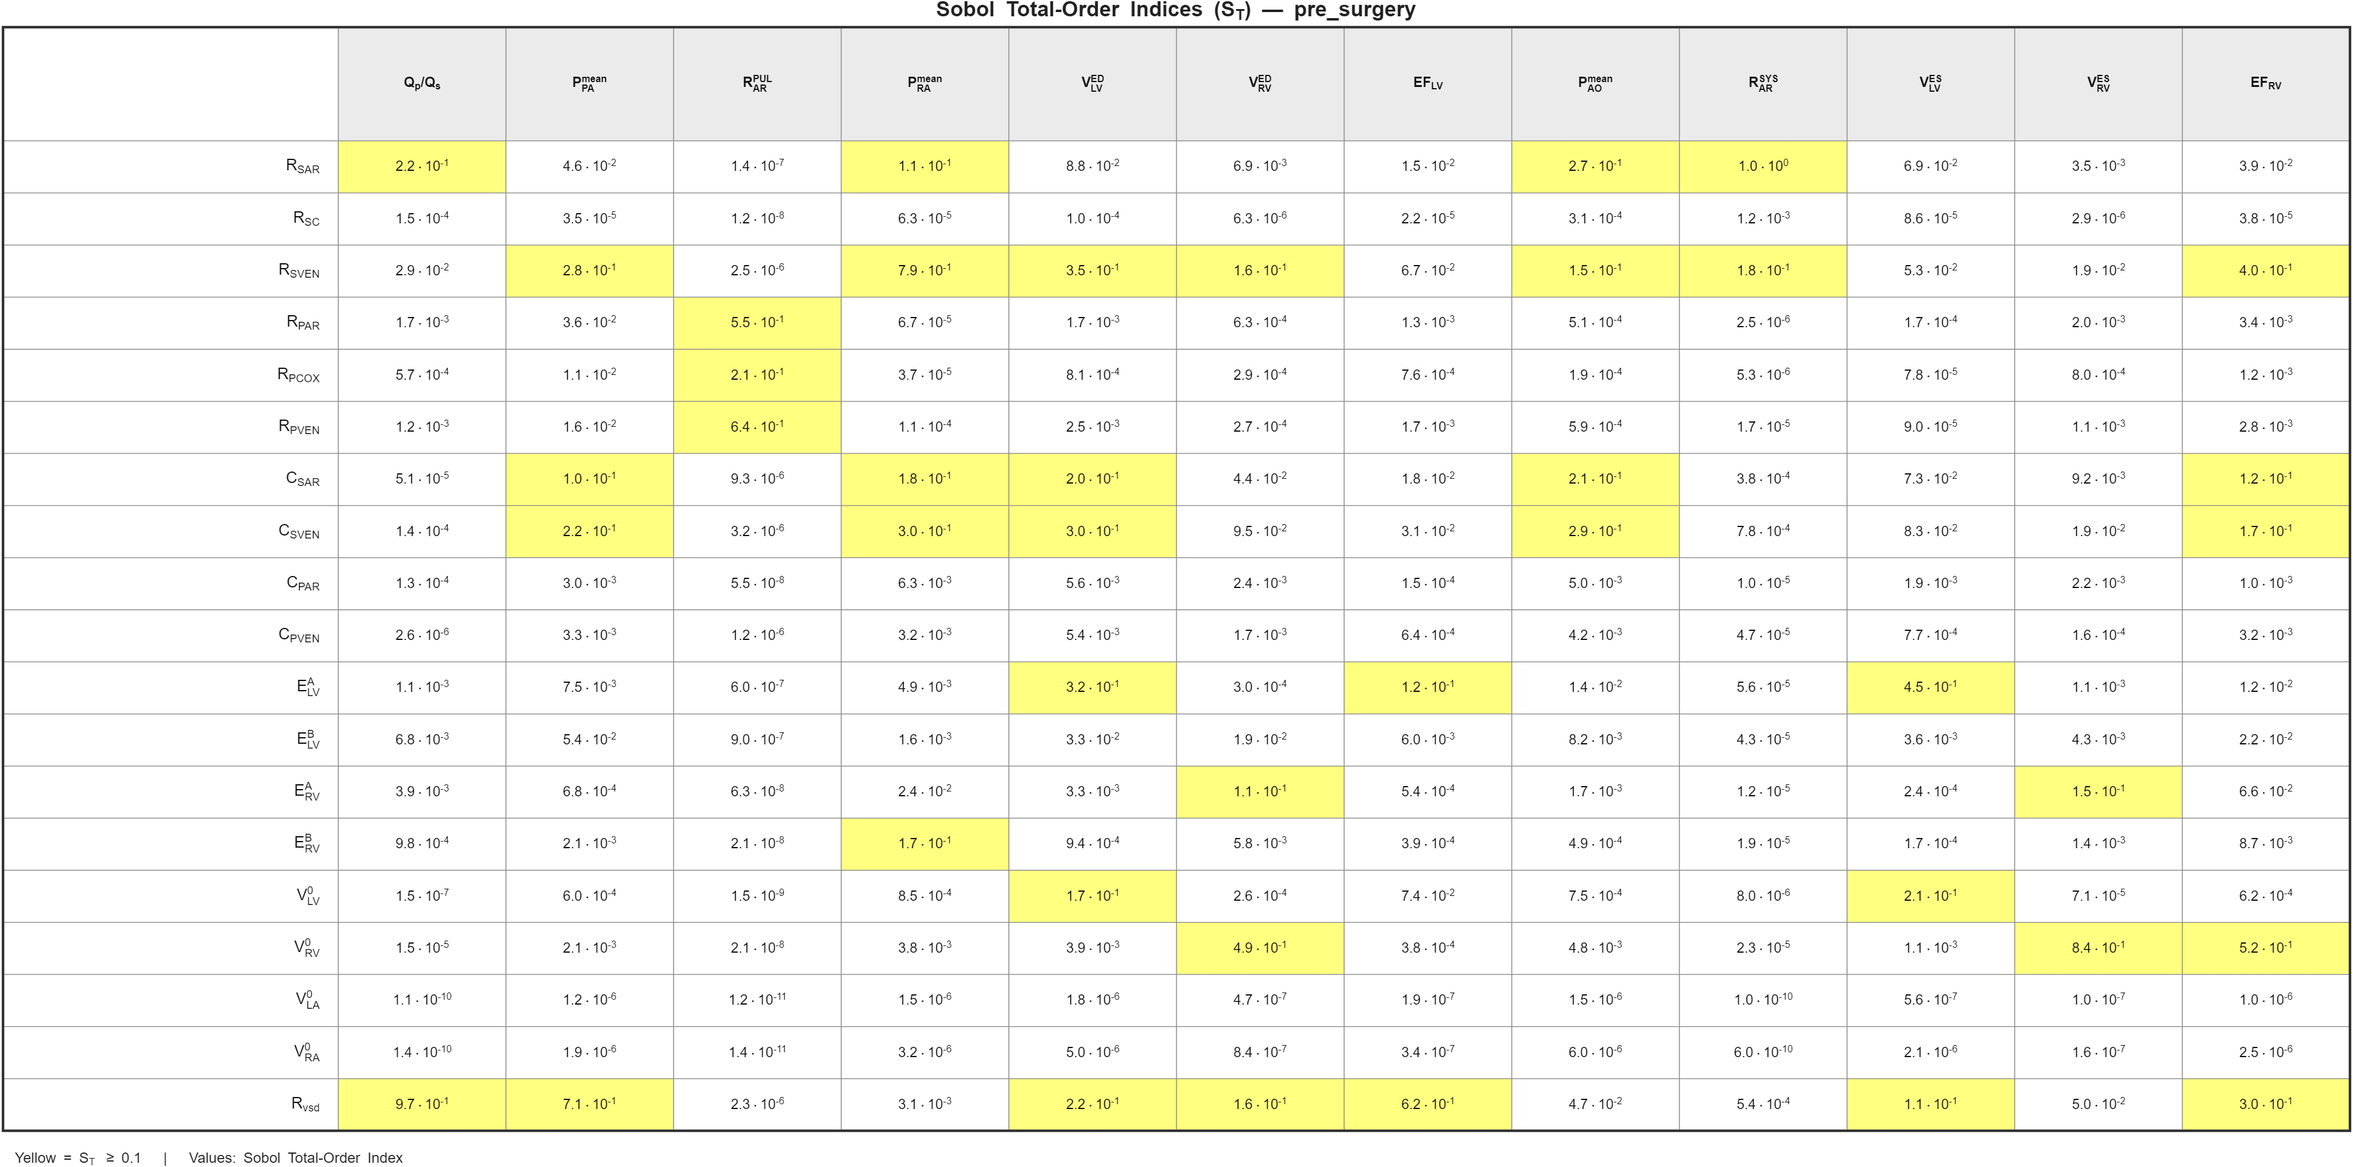
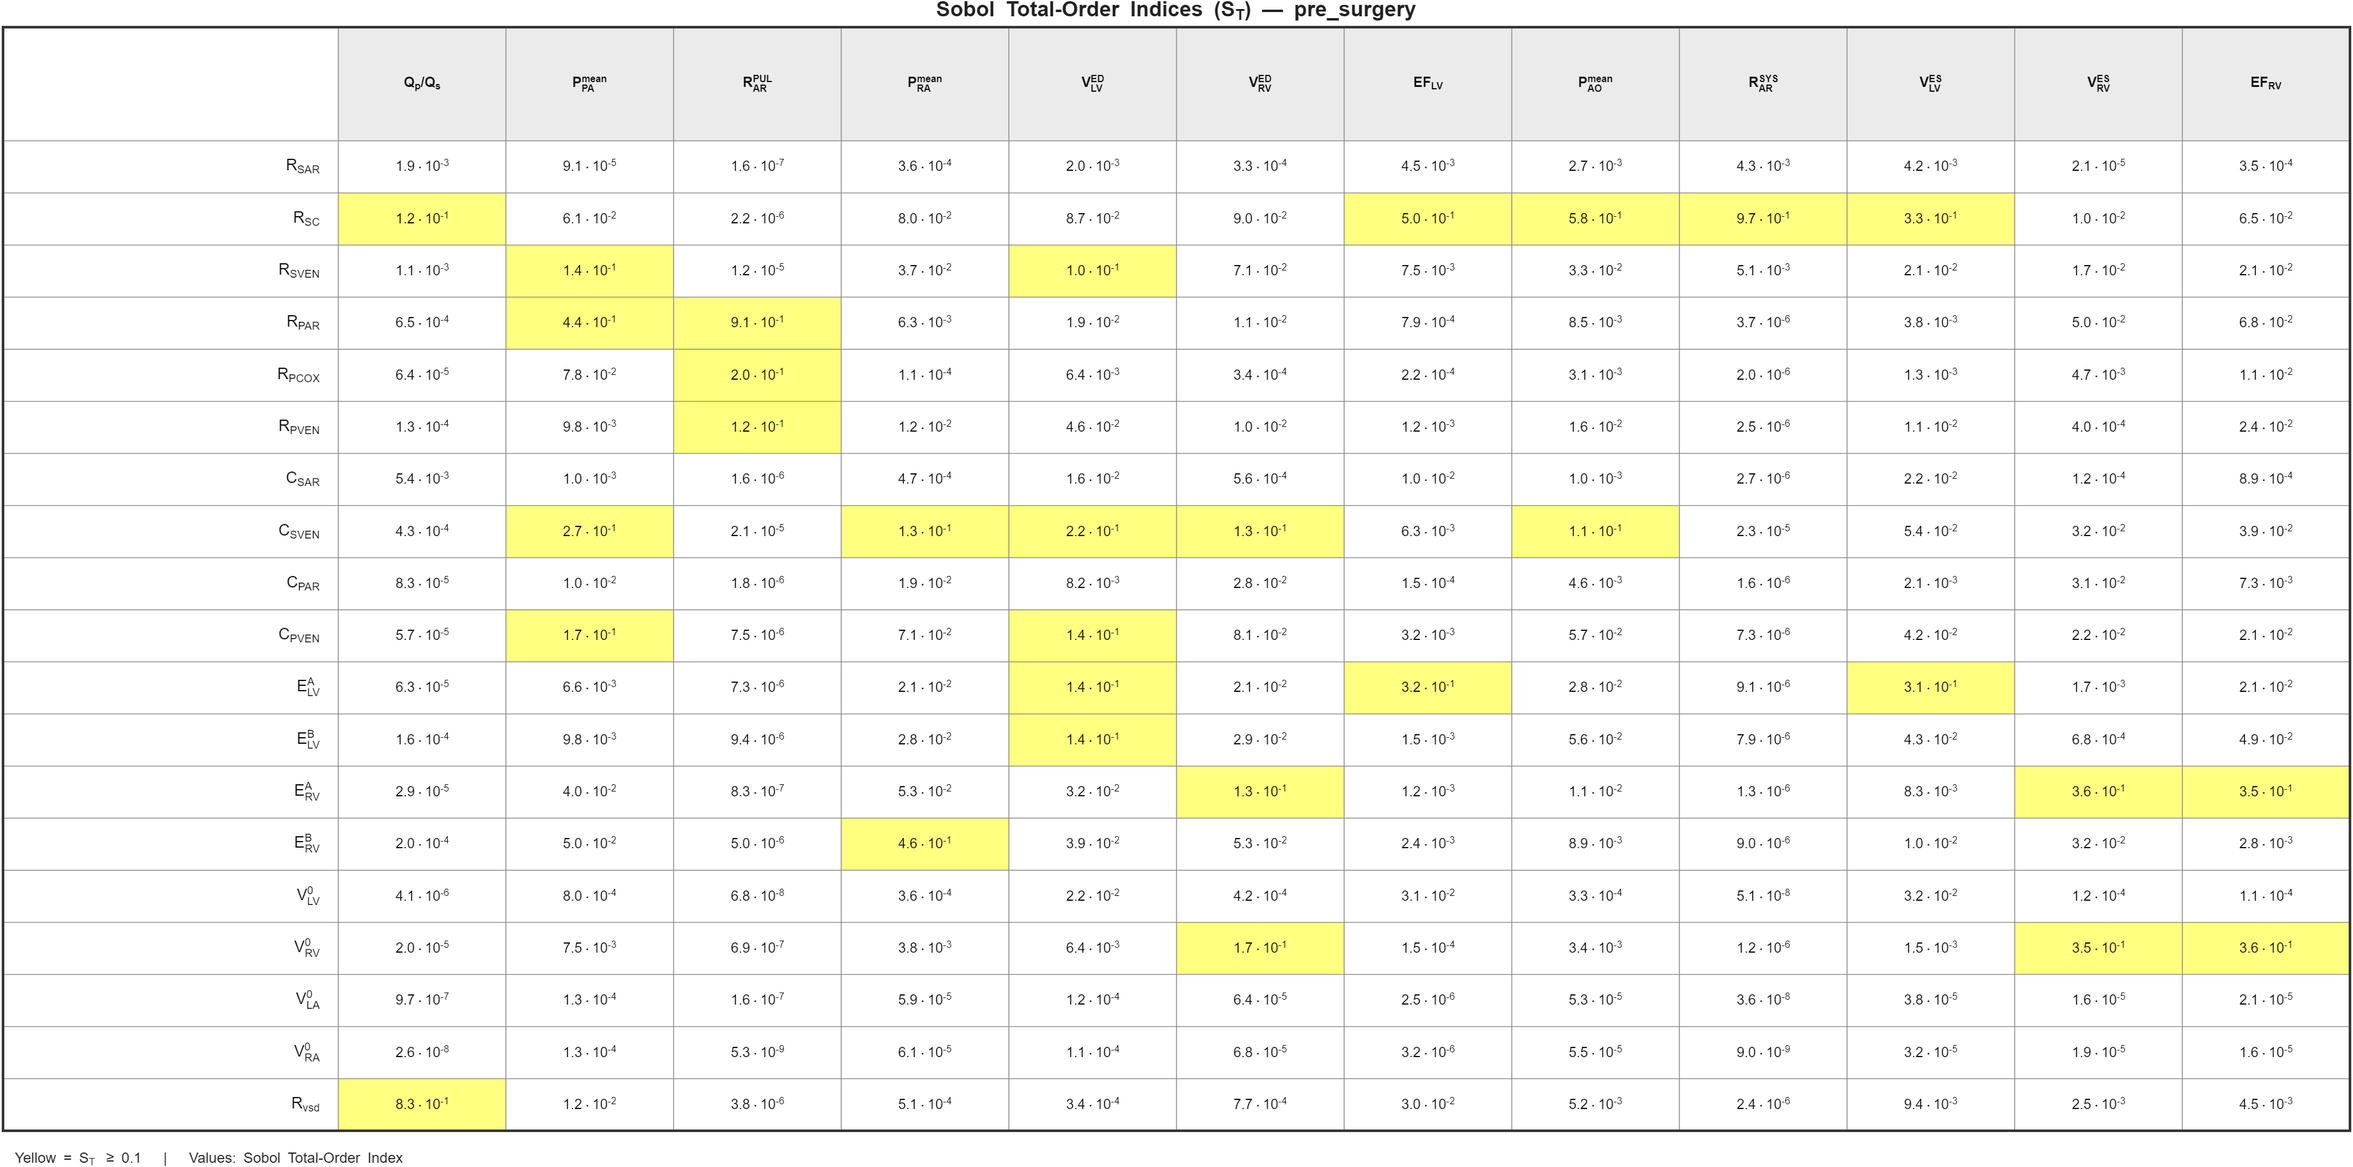
V 5.2.2

diff --git a/src/calibration/run_calibration.m b/src/calibration/run_calibration.m
@@ -2,23 +2,22 @@ function [params_best, calib_out] = run_calibration(params0, clinical, scenario)
 % RUN_CALIBRATION
 % -----------------------------------------------------------------------
 % Calibrates a scenario-specific subset of model parameters to clinical
-% haemodynamic targets using fmincon (interior-point, L-BFGS Hessian).
+% haemodynamic targets using Nelder-Mead (fminsearch).
 %
 % RATIONALE:
-%   The baseline model (from params_from_clinical.m) already maps clinical
-%   parameters to model space via Ohm's law (Phase 0, deterministic).
-%   This function performs Phase 1: a bounded gradient-based polish.
+%   The baseline model (from params_from_clinical.m) already maps 28
+%   clinical parameters to model space via Ohm's law and conservation
+%   principles (Phase 0, deterministic). This function performs Phase 1:
+%   a bounded Nelder-Mead polish to refine elastance parameters only.
 %
-%   fmincon (interior-point + L-BFGS) is chosen because:
-%     - Hard bounds on all 11 parameters are enforced natively, avoiding
-%       penalty-weight tuning required by Nelder-Mead wrappers.
-%     - L-BFGS approximate Hessian is cheap (no Hessian storage) and
-%       robust to noisy objectives from ODE finite-differencing.
-%     - Forward-difference step 1e-5 is large enough to clear ODE noise
-%       while remaining within the physiologically linear regime.
-%     - Convergence at ~300–500 evals (vs 500+ for Nelder-Mead at d=11).
+%   Nelder-Mead is optimal for smooth, low-dimensional (2–4 vars)
+%   unconstrained problems near a good starting point. Convergence:
+%   ~100–200 evals = ~5–15 minutes (vs ~20–50 min for particleswarm).
 %
-%   REQUIRES: Optimization Toolbox (fmincon).
+%   Solver comparison for this use case:
+%   - fminsearch (Nelder-Mead):  optimal for d≤4, smooth objective
+%   - fmincon:                    requires gradient; fails with ODE noise
+%   - particleswarm:              overkill; 4× longer than Nelder-Mead
 %
 % INPUTS:
 %   params0   - baseline (scaled, pre-conditioned by params_from_clinical)
@@ -26,22 +25,18 @@ function [params_best, calib_out] = run_calibration(params0, clinical, scenario)
 %   scenario  - 'pre_surgery' | 'post_surgery'
 %
 % OUTPUTS:
-%   params_best - parameter struct with optimized parameters
-%   calib_out   - struct with convergence summary, including:
-%                   .exitflag   fmincon exit condition
-%                   .output     fmincon output struct
-%                   .mask       logical active-parameter mask
-%                   .xbest_all  full parameter vector (active + frozen)
+%   params_best - parameter struct with optimized elastances
+%   calib_out   - struct with convergence summary
 %
 % REFERENCES:
-%   [1] Nocedal J & Wright SJ (2006). Numerical Optimization, 2nd ed.
-%       Springer. Ch. 7 (L-BFGS), Ch. 19 (interior-point).
+%   [1] Torczon, V. (1991). On the Convergence of Pattern Search Algorithms.
+%       SIAM J. Optimization 1(2), 123–145. (Nelder-Mead theory)
 %   [2] objective_calibration.m — weighted least-squares objective
 %   [3] calibration_param_sets.m — free-parameter lists and bounds
 %
 % AUTHOR:   Unified VSD Model
 % DATE:     2026-03-03
-% VERSION:  3.0  (fmincon interior-point + L-BFGS)
+% VERSION:  2.1
 % -----------------------------------------------------------------------
 
 %% Retrieve scenario-specific calibration configuration
@@ -58,19 +53,19 @@ fprintf('[run_calibration] Starting from pre-conditioned baseline (J0 = %.6f)...
 if exist('fmincon', 'file') ~= 2
     error('run_calibration:missingFmincon', ...
           ['fmincon is not available. Install Optimization Toolbox ' ...
-           'to run calibration.']);
+           'to run Batch 3 calibration.']);
 end
 
 opts = optimoptions('fmincon', ...
-    'Algorithm',                'interior-point', ...
-    'HessianApproximation',     'lbfgs', ...
-    'FiniteDifferenceStepSize', 1e-5,  ...
-    'FiniteDifferenceType',     'forward', ...
-    'Display',                  'iter-detailed', ...
-    'MaxFunctionEvaluations',   4000, ...
-    'MaxIterations',            300, ...
-    'OptimalityTolerance',      1e-6, ...
-    'StepTolerance',            1e-8);
+    'Algorithm', 'interior-point', ...
+    'HessianApproximation', 'lbfgs', ...
+    'FiniteDifferenceStepSize', 1e-5, ...
+    'FiniteDifferenceType', 'forward', ...
+    'Display', 'iter-detailed', ...
+    'MaxFunctionEvaluations', 4000, ...
+    'MaxIterations', 300, ...
+    'OptimalityTolerance', 1e-6, ...
+    'StepTolerance', 1e-8);
 
 [xbest, fbest, exitflag, output] = fmincon( ...
     obj, calib.x0, [], [], [], [], calib.lb, calib.ub, [], opts);
@@ -84,36 +79,30 @@ for i = 1:numel(calib.names)
 end
 
 % Reconstruct full parameter vector for traceability (active + frozen).
-% xbest_all has the same length as calib.names_all; active entries are
-% replaced with the optimised values, frozen entries stay at x0_all.
-xbest_all          = calib.x0_all;
+xbest_all = calib.x0_all;
 xbest_all(calib.mask) = xbest;
 
 %% Collect output summary
-calib_out             = struct();
-calib_out.names       = calib.names;        % active parameter names
-calib_out.names_all   = calib.names_all;    % full candidate list
-calib_out.mask        = calib.mask;         % active-param logical mask
-calib_out.x0         = calib.x0;           % initial guess (active)
-calib_out.xbest      = xbest;              % optimised values (active)
-calib_out.x0_all     = calib.x0_all;       % initial guess (full)
-calib_out.xbest_all  = xbest_all;          % optimised values (full)
-calib_out.fbest      = fbest;              % best objective value
-calib_out.lb         = calib.lb;
-calib_out.ub         = calib.ub;
-calib_out.exitflag   = exitflag;           % fmincon exit condition
-calib_out.output     = output;             % fmincon diagnostic struct
-calib_out.scenario   = scenario;
+calib_out         = struct();
+calib_out.names   = calib.names;
+calib_out.names_all = calib.names_all;
+calib_out.mask    = calib.mask;
+calib_out.x0      = calib.x0;
+calib_out.xbest   = xbest;
+calib_out.x0_all  = calib.x0_all;
+calib_out.xbest_all = xbest_all;
+calib_out.fbest   = fbest;
+calib_out.lb      = calib.lb;
+calib_out.ub      = calib.ub;
+calib_out.scenario = scenario;
+calib_out.exitflag = exitflag;
+calib_out.output  = output;
 calib_out.improvement = obj(calib.x0) - fbest;
 
 fprintf('[run_calibration] Improvement: J(x0)=%.6f → J(x*)=%.6f ΔJ=%.6f\n', ...
         obj(calib.x0), fbest, calib_out.improvement);
 
 end  % run_calibration
-
-% =========================================================================
-%  LOCAL HELPERS
-% =========================================================================
 
 function params = set_param_by_name(params, name, value)
 % SET_PARAM_BY_NAME — assign value to nested struct field via dot notation

diff --git a/main_run.m b/main_run.m
@@ -59,7 +59,7 @@ addpath(genpath(root));
 %% ---- user toggles (edit here) -----------------------------------------
 % DO_CALIBRATION: set true only when you want fmincon/MultiStart tuning.
 % Leave false for a quick baseline simulation (calibration takes ~5–30 min).
-DO_CALIBRATION = true;
+DO_CALIBRATION = true; % false di post surgery untuk sebagai model prediksi
 DO_GSA         = false;
 DO_PLOTS       = true;
 
@@ -95,6 +95,51 @@ if isfield(clinical.common, 'BSA') && ~isnan(clinical.common.BSA)
 end
 
 params0 = apply_scaling(params_ref, patient);
+
+%% =====================================================================
+%  STEP 1b — Warm-start: overlay calibrated pre-surgery parameters
+%  This block is activated when clinical.pre_surgery.CalibParams is
+%  populated (e.g. by run_post_surgery.m).  It replaces the allometric
+%  estimates for ventricular elastances, unstressed volumes, and vascular
+%  R/C with the patient-personalised values identified during the
+%  pre-surgery calibration run, giving the post-surgery fmincon a
+%  physiologically informed starting point.
+%
+%  Parameters NOT overwritten here (left at allometric values):
+%    R.vsd    — will be set to R_VSD_CLOSED (1e6) by params_from_clinical
+%    HR / timing — re-derived from clinical.common.HR in params_from_clinical
+%    IC vector  — re-seeded by params_from_clinical from post-op pressures
+%% =====================================================================
+if isfield(clinical, 'pre_surgery') && ...
+   isfield(clinical.pre_surgery, 'CalibParams') && ...
+   ~isempty(clinical.pre_surgery.CalibParams)
+
+    cp = clinical.pre_surgery.CalibParams;  % calibrated pre-surgery params
+
+    % ---- Ventricular elastances  [mmHg/mL] ----------------------------
+    params0.E.LV.EA  = cp.E.LV.EA;
+    params0.E.LV.EB  = cp.E.LV.EB;
+    params0.E.RV.EA  = cp.E.RV.EA;
+    params0.E.RV.EB  = cp.E.RV.EB;
+
+    % ---- Unstressed volumes  [mL] -------------------------------------
+    params0.V0.LV    = cp.V0.LV;
+    params0.V0.RV    = cp.V0.RV;
+
+    % ---- Vascular resistances  [mmHg·s/mL] ---------------------------
+    params0.R.SAR    = cp.R.SAR;
+    params0.R.SC     = cp.R.SC;
+    params0.R.SVEN   = cp.R.SVEN;
+    params0.R.PAR    = cp.R.PAR;
+    params0.R.PCOX   = cp.R.PCOX;
+    params0.R.PVEN   = cp.R.PVEN;
+
+    % ---- Vascular compliances  [mL/mmHg] -----------------------------
+    params0.C.SAR    = cp.C.SAR;
+    params0.C.PAR    = cp.C.PAR;
+
+    fprintf('[main_run] Warm-start: calibrated pre-surgery params injected.\n');
+end
 
 %% =====================================================================
 %  STEP 2 — Map clinical measurements (HR, SVR, PVR, R_VSD)
@@ -145,6 +190,17 @@ if DO_PLOTS
     if DO_CALIBRATION && ~isempty(metrics_cal)
         plotting_tools(sim_cal, params_cal, 'Calibrated', scenario);
     end
+
+    % Post-surgery: overlay predicted waveforms against clinical measurements
+    if strcmp(scenario, 'post_surgery')
+        fprintf('\n[main_run] Generating post-surgery validation overlay plots...\n');
+        % Use calibrated params if available, otherwise use baseline prediction
+        if DO_CALIBRATION && ~isempty(metrics_cal)
+            plot_post_surgery_validation(sim_cal, params_cal, clinical);
+        else
+            plot_post_surgery_validation(sim_base, params0, clinical);
+        end
+    end
 end
 
 %% =====================================================================
@@ -171,7 +227,7 @@ if DO_GSA
     gsa_results_dir = fullfile(root, 'results', 'gsa');
     if ~exist(gsa_results_dir, 'dir'), mkdir(gsa_results_dir); end
 
-    timestamp  = datestr(now, 'yyyymmdd_HHMMSS');
+    timestamp  = char(datetime('now', 'Format', 'yyyyMMdd_HHmmSS'));
     gsa_fname  = fullfile(gsa_results_dir, ...
                           sprintf('gsa_pce_%s_%s.mat', scenario, timestamp));
 
@@ -213,11 +269,10 @@ results_dir = fullfile(root, 'results', 'tables');
 if ~exist(results_dir, 'dir'), mkdir(results_dir); end
 
 if DO_CALIBRATION
-    save(fullfile(results_dir, sprintf('params_calibrated_%s.mat', scenario)), ...
-         'params_cal', 'calib_out', 'report');
-    fprintf('\n[main_run] Calibrated parameters saved to results/tables/\n');
+    % Modern timestamped saving to prevent overwriting (Guardrail §6.1)
+    timestamp = char(datetime('now', 'Format', 'yyyyMMdd_HHmmSS'));
+    fname = sprintf('params_calibrated_%s_%s.mat', scenario, timestamp);
+    
+    save(fullfile(results_dir, fname), 'params_cal', 'calib_out', 'report');
+    fprintf('\n[main_run] Calibrated parameters saved to %s/%s\n', results_dir, fname);
 end
-
-fprintf('\n[main_run] Done. Scenario: %s\n', scenario);
-
-end  % main_run

diff --git a/src/calibration/calibration_param_sets.m b/src/calibration/calibration_param_sets.m
@@ -76,6 +76,10 @@ switch scenario
         'SAP_max'
         'SAP_mean'
         'QpQs'
+        'LVEDV'
+        'LVESV'
+        'RVEDV'
+        'RVESV'
         };
 
     % Weights — prioritise mean pressures and QpQs as primary targets.
@@ -104,32 +108,35 @@ switch scenario
     % compliances, ventricular elastances.  R_VSD is NOT free.
     % ================================================================
     calib.names = {
-        'R.SAR'       % Systemic arterial resistance
         'R.SVEN'      % Systemic venous resistance
-        'R.PAR'       % Pulmonary arterial resistance
-        'R.PCOX'      % Pulmonary capillary resistance
-        'R.PVEN'      % Pulmonary venous resistance
-        'C.SAR'       % Systemic arterial compliance
-        'C.PAR'       % Pulmonary arterial compliance
+        'R.PAR'       % Pulmonary arterial resistance (must be included)
+        'R.PVEN'      % Pulmonary venous resistance (must be included)
+        'C.SVEN'      % Systemic venous compliance (must be included)
         'E.LV.EA'     % LV active elastance
         'E.LV.EB'     % LV passive elastance
-        'E.RV.EA'     % RV active elastance
+        'E.RV.EA'     % RV active elastance (second )
         'E.RV.EB'     % RV passive elastance
+        'V0.RV'       % RV unstressed volume
+        'R.SC'        % Systemic arteriolar resistance   — primary SVR contributor
+        'R.PCOX'      % Pulmonary arteriolar resistance
+        'C.PVEN'      % Pulmonary venous compliance
+        'R.SAR'       % Aortic resistance               — controls MAP
+        'C.SAR'       % Aortic (Windkessel) compliance  — controls pulse pressure
         };
 
     calib.metricFields = {
-        'SAP_min'
+        'PAP_max'
+        'PAP_min'
+        'PAP_mean'
         'SAP_max'
+        'SAP_min'
         'SAP_mean'
-        'SVR'
-        'PVR'
-        'LVEF'
-        'RVEF'
+        'RAP_mean'
         'QpQs'
         'LVEDV'
+        'LVESV'
         'RVEDV'
-        'RAP_mean'
-        'PAP_mean'
+        'RVESV'
         };
 
     calib.weights = struct();

diff --git a/src/calibration/objective_calibration.m b/src/calibration/objective_calibration.m
@@ -92,7 +92,7 @@ for k = 1:numel(calib.metricFields)
         % 100x Barrier logic for primary metrics (> 5% error = large penalty).
         % These are the most clinically important targets. Errors > 5% are
         % physiologically unacceptable and must be penalised heavily.
-        primary_metrics = {'QpQs', 'SAP_max', 'SAP_mean', 'PAP_max', 'PAP_mean'};
+        primary_metrics = {'QpQs', 'SAP_max', 'SAP_min', 'SAP_mean', 'PAP_max', 'PAP_mean'};
         if ismember(mf, primary_metrics) && (err_rel > 0.05)
             w = w * 100;
         end
@@ -145,15 +145,13 @@ switch scenario
         fmap.LVESV     = 'LVESV_mL';
         fmap.RVEDV     = 'RVEDV_mL';
         fmap.RVESV     = 'RVESV_mL';
-        fmap.LVEF      = 'LVEF';
+        
     case 'post_surgery'
-        fmap.SAP_min   = 'SAP_sys_mmHg';
-        fmap.SAP_max   = 'SAP_sys_mmHg';
+        fmap.SAP_min   = 'SAP_dia_mmHg';   % diastolic trough → SAP_dia
+        fmap.SAP_max   = 'SAP_sys_mmHg';   % systolic peak    → SAP_sys
         fmap.SAP_mean  = 'MAP_mmHg';
         fmap.SVR       = 'SVR_WU';
         fmap.PVR       = 'PVR_WU';
-        fmap.LVEF      = 'LVEF';
-        fmap.RVEF      = 'RVEF';
         fmap.QpQs      = 'QpQs';
         fmap.LVEDV     = 'LVEDV_mL';
         fmap.RVEDV     = 'RVEDV_mL';

diff --git a/run_patient_case.m b/run_patient_case.m
@@ -8,12 +8,12 @@ clinical = patient_template();
 
 % 2. Demographics
 clinical.common.age_years = 3 + (2 / 12); % 3 years 2 months
-clinical.common.weight_kg = 13.4;          % kg 
+clinical.common.weight_kg = 13.4;          % kg
 clinical.common.height_cm = 95;           % cm
 clinical.common.sex       = 'F';          % Female
 
 % 3. VSD defect data (Pre-surgery)
-clinical.pre_surgery.VSD_diameter_mm   = 6.0;   % mm
+clinical.pre_surgery.VSD_diameter_mm   = 5.0;   % mm
 clinical.pre_surgery.VSD_gradient_mmHg = 94;    % mmHg (Peak systolic VSD gradient)
 
 % 4. Haemodynamic targets (Pre-surgery)
@@ -25,6 +25,10 @@ clinical.pre_surgery.SAP_dia_mmHg  = 83;      % mmHg (SAP Min)
 clinical.pre_surgery.SAP_mean_mmHg = 95;      % mmHg (MAP)
 clinical.pre_surgery.RAP_mean_mmHg = 5;       % mmHg
 clinical.pre_surgery.QpQs          = 1.194;   % Pulmonary/Systemic Flow Ratio
+clinical.pre_surgery.LVEDV_mL      = 32;      % mL
+clinical.pre_surgery.LVESV_mL      = 23.6;    % mL
+clinical.pre_surgery.RVEDV_mL      = 30.5;    % mL
+clinical.pre_surgery.RVESV_mL      = 12;      % mL
 
 % 5. Run the full pipeline
 scenario = 'pre_surgery';

diff --git a/src/utils/validation_report.m b/src/utils/validation_report.m
@@ -67,8 +67,8 @@ switch scenario
     case 'post_surgery'
         src = clinical.post_surgery;
         metric_defs = {
-            'SAP_min',   'SAP_sys_mmHg',   'mmHg',   'Systemic arterial systolic (min)'
-            'SAP_max',   'SAP_sys_mmHg',   'mmHg',   'Systemic arterial systolic (max)'
+            'SAP_min',   'SAP_dia_mmHg',   'mmHg',   'Systemic arterial diastolic (trough)'
+            'SAP_max',   'SAP_sys_mmHg',   'mmHg',   'Systemic arterial systolic (peak)'
             'SAP_mean',  'MAP_mmHg',       'mmHg',   'Mean arterial pressure'
             'SVR',       'SVR_WU',         'WU',     'Systemic vascular resistance'
             'PVR',       'PVR_WU',         'WU',     'Pulmonary vascular resistance'

diff --git a/src/utils/plotting_tools.m b/src/utils/plotting_tools.m
@@ -38,7 +38,7 @@ t  = sim.t(:);
 XV = sim.V;
 
 %% Locate results/figures directory (create if absent)
-root_dir   = fileparts(fileparts(mfilename('fullpath')));   % project root
+root_dir   = fileparts(fileparts(fileparts(mfilename('fullpath'))));   % project root (src/utils/ -> src/ -> root)
 fig_dir    = fullfile(root_dir, 'results', 'figures');
 if ~exist(fig_dir, 'dir'), mkdir(fig_dir); end
 
